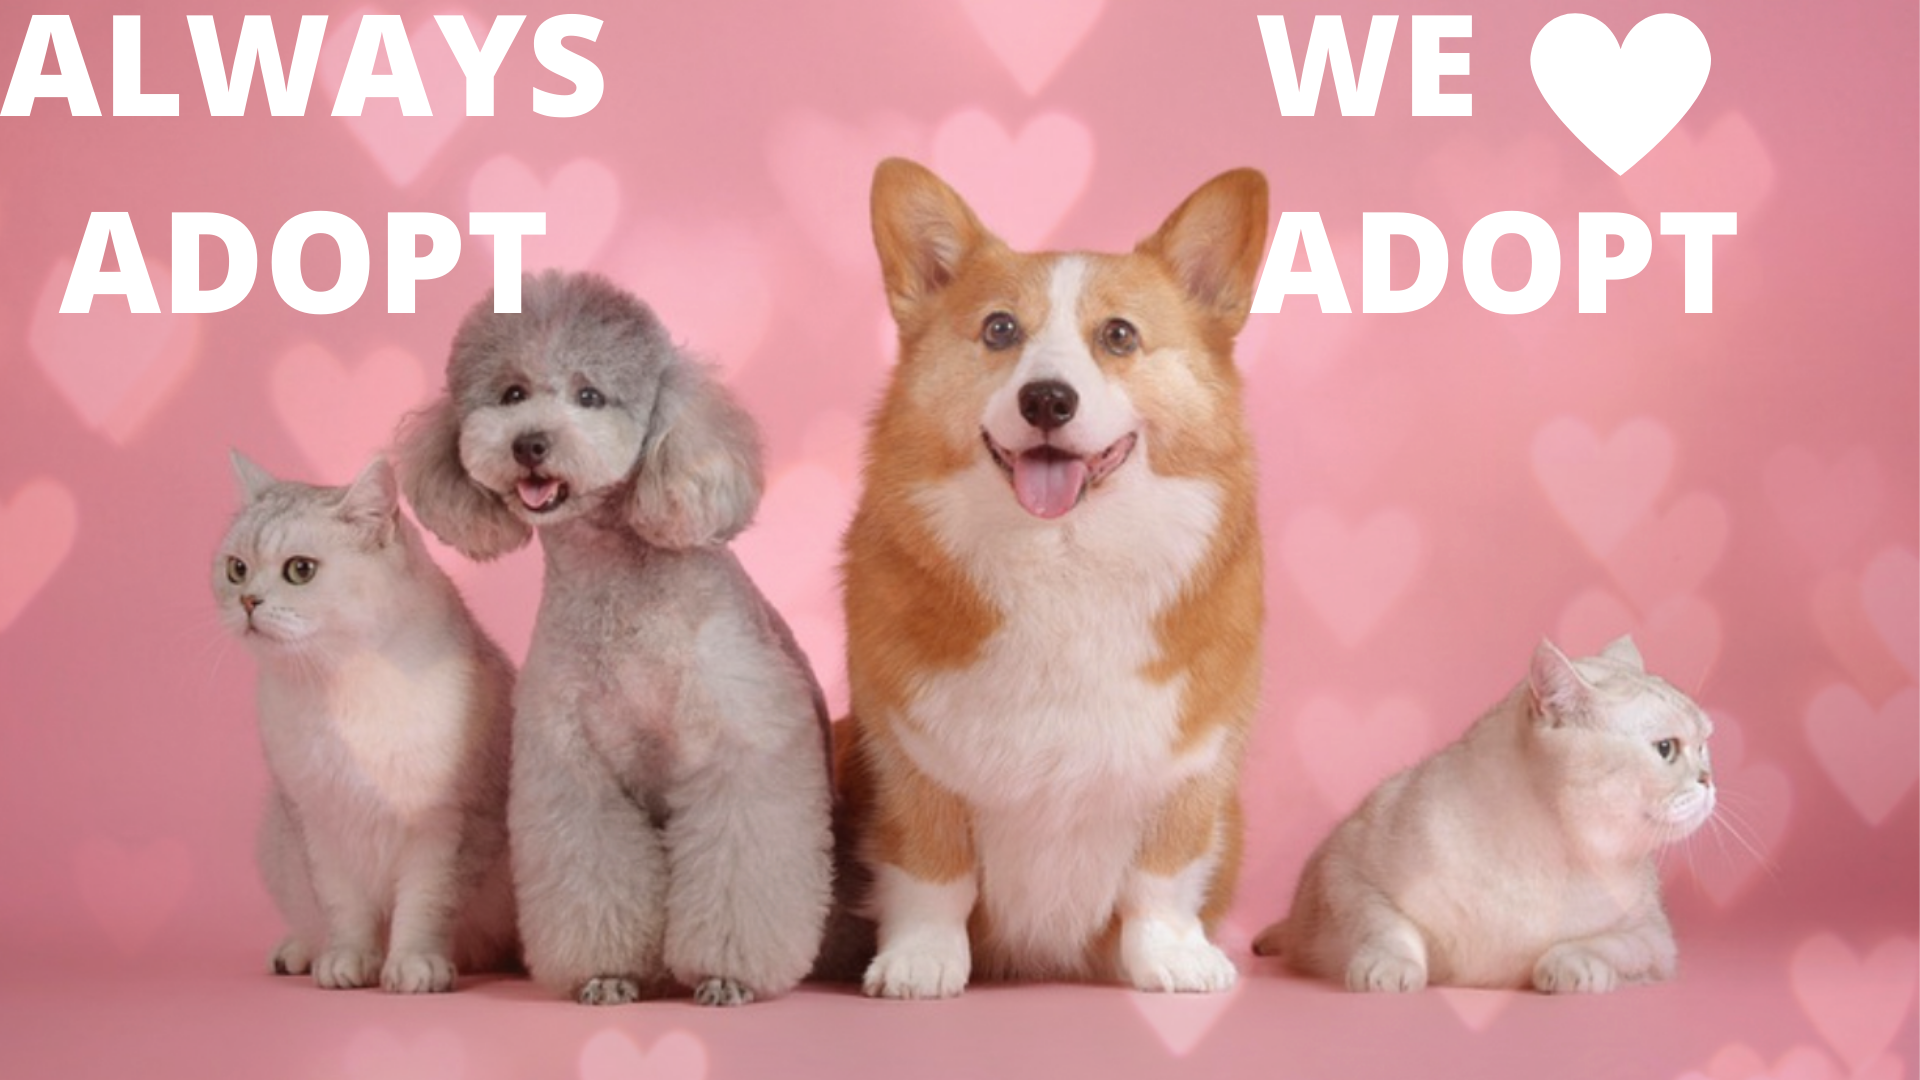
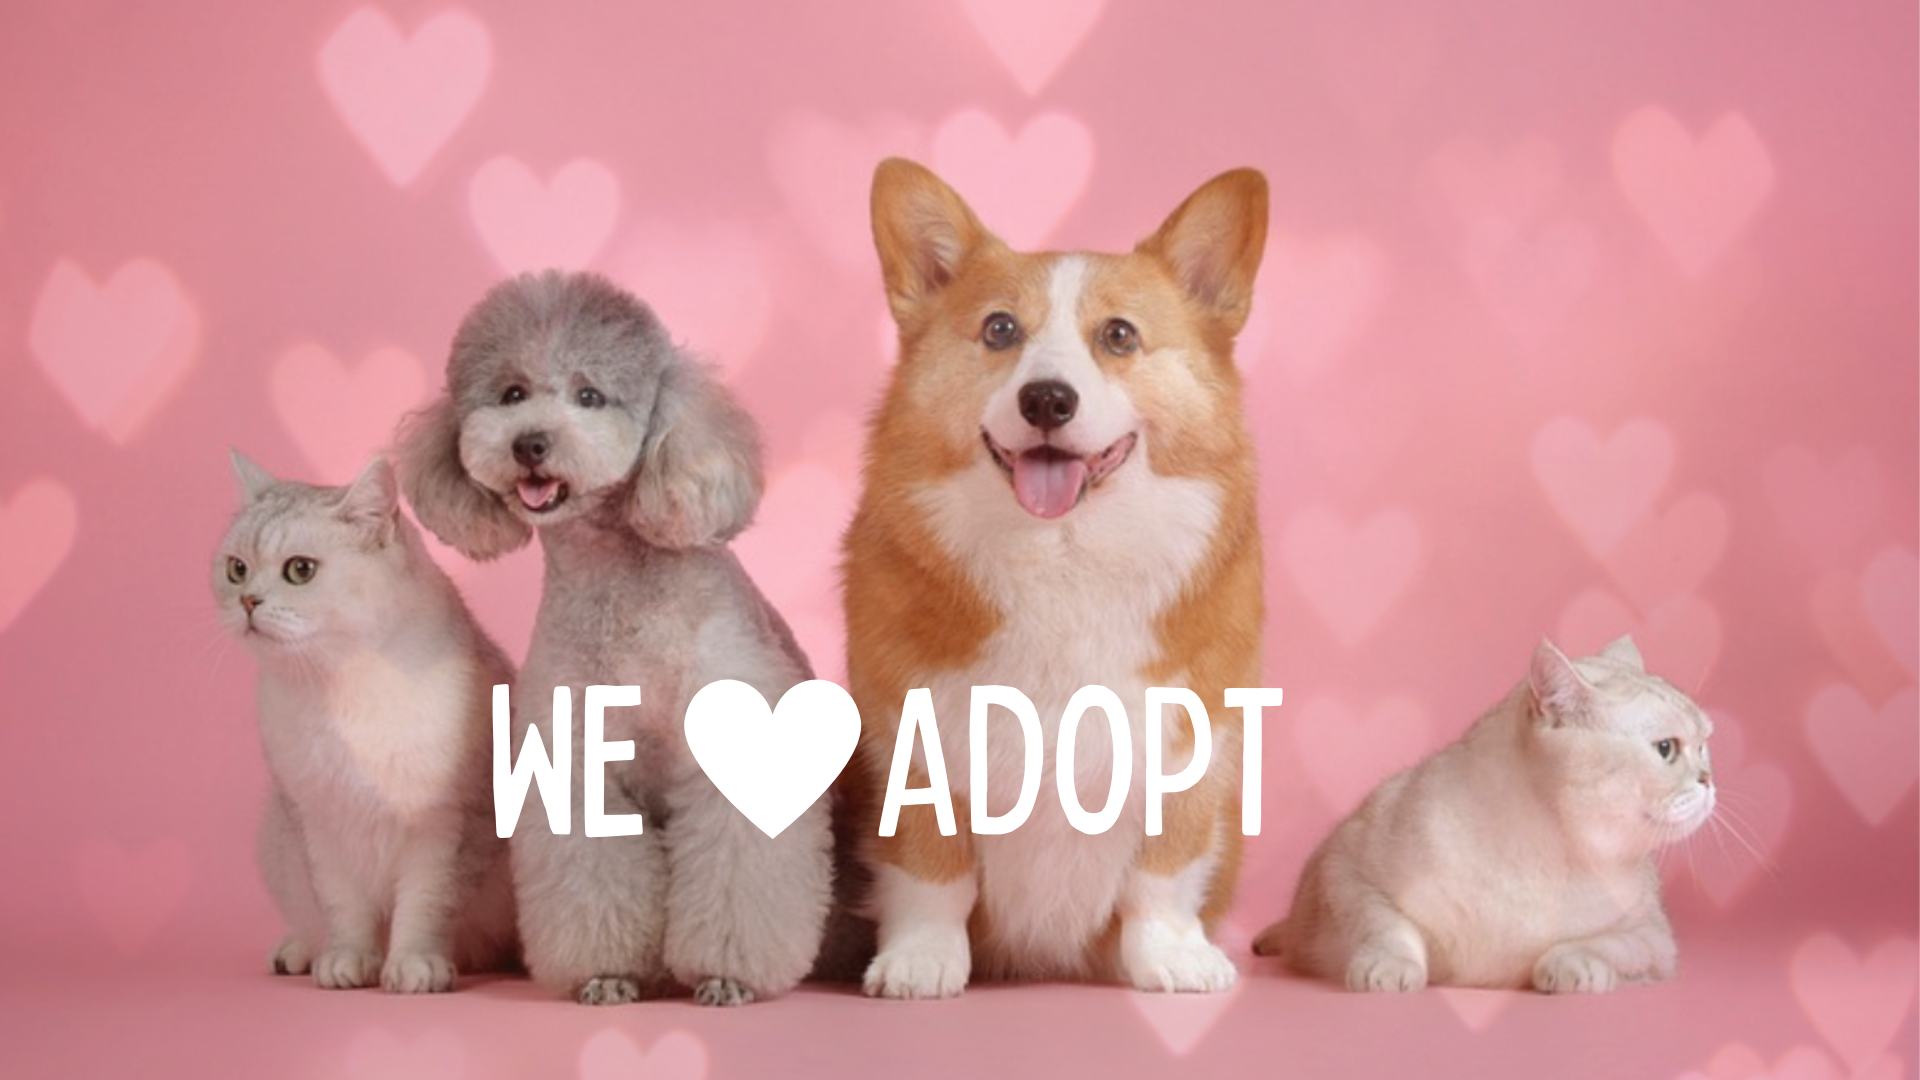
more improvements

diff --git a/s21jquery_ajax/index.html b/s21jquery_ajax/index.html
@@ -23,16 +23,20 @@
         <div class="container-fluid">
             <button class="navbar-toggler" type="button" data-toggle="collapse" data-target="#navbarSupportedContent" aria-controls="navbarSupportedContent" aria-expanded="false" aria-label="Toggle navigation">
                 <span class="navbar-toggler-icon"></span>
-              </button>
-              <div class="collapse navbar-collapse" id="navbarSupportedContent">
+            </button>
+                <div class="collapse navbar-collapse" id="navbarSupportedContent">
+                    <div>
+                        <a href="./index.html" class="pr-3 nav-logo" >
+                            <img src="./img/AdoptApp-2.png" alt="">
+                        </a>
+                    </div>
                 <ul class="navbar-nav">
-                  <li class="nav-item">
-                    <a style="font-size:1.5rem" class="nav-link active" aria-current="page" href="#">Mascotas</a>
-                  </li>
-                  <li class="nav-item">
-                    <a style="font-size:1.5rem" class="nav-link disponibles" href="#">Disponibles</a>
-                  </li>
-                  
+                    <li class="nav-item">
+                        <a style="font-size: 2rem;" class="nav-link active" aria-current="page" href="#">Mascotas</a>
+                    </li>
+                        <li class="nav-item">
+                        <a style="font-size: 2rem;" class="nav-link disponibles" href="#">Disponibles</a>
+                    </li>
                 </ul>
             </div>
         </div>
@@ -46,13 +50,13 @@
         </ol>
         <div class="carousel-inner">
             <div class="carousel-item active">
-                <img class="d-block w-100" src="./img/adopting-marathon.png" alt="First slide">
+                <img class="d-block " src="./img/adopting-marathon.png" alt="First slide">
             </div>
         <div class="carousel-item">
-            <img class="d-block w-100" src="./img/small-species.png" alt="Second slide">
+            <img class="d-block " src="./img/small-species.png" alt="Second slide">
         </div>
         <div class="carousel-item">
-            <img class="d-block w-100" src="./img/we-love-adopting.png" alt="Third slide">
+            <img class="d-block" src="./img/we-love-adopting.png" alt="Third slide">
         </div>
         </div>
         <a class="carousel-control-prev" href="#carouselExampleIndicators" role="button" data-slide="prev">
@@ -63,7 +67,7 @@
             <span class="carousel-control-next-icon" aria-hidden="true"></span>
             <span class="sr-only">Next</span>
         </a>
-    </div>
+        </div>
     <div class="container mt-5">
         <div class="row">
             <div class="col-12 col-md-4">
@@ -74,7 +78,7 @@
                             placeholder="Ingresa el nombre de tu mascota" value="Ikki" required aria-describedby="validationServer1">
                             <div class="invalid-feedback" id="validationServer1">
                                 Por favor, ingrese el nombre de la mascota.
-                              </div> 
+                            </div> 
                     </div>
                     <div class="form-group">
                         <select name="specie" class="form-control" id="specie" required aria-describedby="validationServer2">
@@ -86,14 +90,14 @@
                         </select>
                         <div class="invalid-feedback" id="validationServer2">
                             Por favor,selecciona una especie válida.
-                          </div>  
+                        </div>  
                         </div>
                         <div class="form-group">
                         <input name="age"  type="number" class="form-control" placeholder="Qué edad tiene tu mascota?"
                             value="2 meses" required aria-describedby="validationServer3">
                             <div class="invalid-feedback"  id="validationServer3">
                                 Por favor, ingrese la edad de la mascota.
-                              </div> 
+                            </div> 
                     </div>
                     <div class="form-group">
                         <input name="picture" required type="text" class="form-control"
@@ -101,14 +105,14 @@
                             value="https://tse1.mm.bing.net/th?id=OIP.rn3yMJz55q1rt0vR2vvWXQHaFR&pid=Api"  aria-describedby="validationServer4">
                             <div class="invalid-feedback"  id="validationServer4">
                                 Por favor, ingrese la url de la imagen.
-                              </div> 
+                            </div> 
                     </div>
                     <button style="font-family: 'Patrick Hand', cursive; font-size: 1.2rem;" type="button" id="save-pet" class="btn btn-success">Guardar</button>
                 </form>
             </div>
             <div class="col-12 col-md-8">
                 <div class="w-100">
-                    <form class="p-3 bg-dark text-white border rounded">
+                    <form class="p-3 text-white rounded filter-form mb-3">
                         <div class="form-group">
                             <label for="specie">Filtrar por especie</label>
                             <select name="specie" class="form-control" id="specie-filter"  aria-describedby="validationServer5">
@@ -146,8 +150,8 @@
             </div>
         </div>   
     </div>
-     <!  >
-     <div class="modal fade" id="exampleModal" tabindex="-1" aria-labelledby="exampleModalLabel" aria-hidden="true">
+    <!  >
+    <div class="modal fade" id="exampleModal" tabindex="-1" aria-labelledby="exampleModalLabel" aria-hidden="true">
         <div class="modal-dialog">
         <div class="modal-content">
             <div class="modal-header">

diff --git a/s21jquery_ajax/js/main.js b/s21jquery_ajax/js/main.js
@@ -96,8 +96,8 @@ $("#save-pet").click(() => {
         petObject = {...petObject, [property] : value }
     })
     console.log( petObject )
-   var checkValidate =  $("#pet-form .is-invalid");
-   if(checkValidate==0){
+    var checkValidate =  $("#pet-form .is-invalid");
+    if(checkValidate==0){
     savePet( petObject )
     printAllPets( getAllPets() )
 }else{
@@ -108,7 +108,6 @@ $("#save-pet").click(() => {
 const displaySelected = (someId) => {
     let mascota = getPetById(someId)
     let { name, specie, age, picture } = mascota
-   
 
     $("#modal-detail").empty()   
     $(".modal-title").html(name)
@@ -117,15 +116,15 @@ const displaySelected = (someId) => {
     <div class="card pet-card">
     <img src="${picture}" class="card-img-top" alt="...">
     <div class="card-body">
-      <h5 class="card-title">Nombre: ${name}</h5>
+        <h5 class="card-title">Nombre: ${name}</h5>
     </div>
     <ul class="list-group list-group-flush">
-      <li class="list-group-item">Especie: ${specie}</li>
-      <li class="list-group-item">Edad: ${age}</li>
+        <li class="list-group-item">Especie: ${specie}</li>
+        <li class="list-group-item">Edad: ${age}</li>
     </ul>
-  </div>`
-  console.log(mascotaHtml)
-  $("#modal-detail").append(mascotaHtml)
+    </div>`
+    console.log(mascotaHtml)
+    $("#modal-detail").append(mascotaHtml)
 
 }
 
@@ -139,17 +138,17 @@ const printAllPets = petsData => {
         <div class="card pet-card">
         <a href = "vista.html?mascota=${pet}" target = "_blank" > <img src=${picture} class="card-img-top" alt="..."> </a>
             <div class="card-body">
-                <h5 class="card-title"><img class="pr-1" style="width: 18px; height: 15px;" src="./img/paw.png" alt="paw">${name}</h5>
+                <h6 class="card-title"><img class="pr-1" style="width: 18px; height: 15px;" src="./img/paw.png" alt="paw">${name}</h6>
                 <p class="card-text">Especie: ${specie}</p>
                 <p class="card-text">Edad: ${age}</p>
-                <button type="button" class="btn btn-primary btnDetalle" data-pet-key=${pet} data-toggle="modal" data-target="#exampleModal ">Detalle</button>
-                <button type="button" class="btn btn-danger btn-delete" data-pet-key=${pet}>Borrar</button>
-                ${!adopted ? `<a href="adoptForm.html?adoptKey=${pet}" class="btn btn-success adopt" data-pet-key=${pet}>Adoptame</a>`:''}
+                <button type="button" class="btn  btnDetalle" data-pet-key=${pet} data-toggle="modal" data-target="#exampleModal ">Detalle</button>
+                <button type="button" class="btn  btn-delete" data-pet-key=${pet}>Borrar</button>
+                ${!adopted ? `<a href="adoptForm.html?adoptKey=${pet}" class="btn  adopt" data-pet-key=${pet}>Adoptame</a>`:''}
             </div>
             </div>
             </div>
         `
-       specie!==undefined?fillSelectSpecies(specie):console.log('especie rechazada',specie);
+    //specie!==undefined?fillSelectSpecies(specie):console.log('especie rechazada',specie);
         $(".pets-wrapper").append(petHtml) 
     }
 
@@ -203,7 +202,7 @@ $("#btn-confirm").click( () => {
 $("#specie-filter").change(function() {
     let filterOption = $("#specie-filter").val();
     petsCollection = getAllPets()
-     console.log( petsCollection )
+        console.log( petsCollection )
     console.log( filterOption )
 
     let filterResult = Object.keys(petsCollection).reduce( ( accum, current ) => {
@@ -217,7 +216,7 @@ $("#specie-filter").change(function() {
 const capitalize = (s) => {
     if (typeof s !== 'string') return ''
     return s.charAt(0).toUpperCase() + s.slice(1)
-  }
+    }
 
 
  function fillSelectSpecies(specie){   

diff --git a/s21jquery_ajax/disponibles.html b/s21jquery_ajax/disponibles.html
@@ -8,11 +8,14 @@
     <title>Document</title>
     <link rel="stylesheet" href="https://cdn.jsdelivr.net/npm/bootstrap@4.6.0/dist/css/bootstrap.min.css"
         integrity="sha384-B0vP5xmATw1+K9KRQjQERJvTumQW0nPEzvF6L/Z6nronJ3oUOFUFpCjEUQouq2+l" crossorigin="anonymous">
+        <link rel="preconnect" href="https://fonts.googleapis.com">
+        <link rel="preconnect" href="https://fonts.gstatic.com" crossorigin>
+        <link href="https://fonts.googleapis.com/css2?family=Patrick+Hand&display=swap" rel="stylesheet"> 
     <link rel="stylesheet" href="css/style.css">
 </head>
 
 <body>
-    <nav class="navbar navbar-expand-lg navbar-dark bg-dark mb-5">
+    <nav class="navbar navbar-expand-lg navbar-dark  mb-5">
         <div class="container-fluid">
             <button class="navbar-toggler" type="button" data-toggle="collapse" data-target="#navbarSupportedContent" aria-controls="navbarSupportedContent" aria-expanded="false" aria-label="Toggle navigation">
                 <span class="navbar-toggler-icon"></span>

diff --git a/s21jquery_ajax/css/style.scss b/s21jquery_ajax/css/style.scss
@@ -10,8 +10,13 @@ $beauBlue: hsl(204, 49%, 87%);
 
 .navbar{
     background-color: $lavender;
-    #nav-logo{
-        height: 80px;
+    img{
+        height: 55px;
+    }
+    li{
+        a{
+            font-family: 'Patrick Hand', cursive;
+        }
     }
 }
 
@@ -49,13 +54,24 @@ $beauBlue: hsl(204, 49%, 87%);
     }
 }
 
-h5{
+h6{
     color: $romanSilver;
     font-family: 'Patrick Hand', cursive;
-    font-size: 1.5rem;
+    font-size: 1.8rem;
 }
 
 h1{
     color: $lavender;
 }
 
+.filter-form{
+    background-color: $thistle;
+}
+
+.carousel-inner{
+    img{
+        height: 90vh;
+        width: 100%;
+        object-fit: cover;
+    }
+}

diff --git a/s21jquery_ajax/css/style.css b/s21jquery_ajax/css/style.css
@@ -6,8 +6,12 @@
   background-color: #d5c8df;
 }
 
-.navbar #nav-logo {
-  height: 80px;
+.navbar img {
+  height: 55px;
+}
+
+.navbar li a {
+  font-family: 'Patrick Hand', cursive;
 }
 
 #form-header {
@@ -46,13 +50,24 @@
   height: 200px;
 }
 
-h5 {
+h6 {
   color: #838b95;
   font-family: 'Patrick Hand', cursive;
-  font-size: 1.5rem;
+  font-size: 1.8rem;
 }
 
 h1 {
   color: #d5c8df;
+}
+
+.filter-form {
+  background-color: #dfbed0;
+}
+
+.carousel-inner img {
+  height: 90vh;
+  width: 100%;
+  -o-object-fit: cover;
+     object-fit: cover;
 }
 /*# sourceMappingURL=style.css.map */

diff --git a/s21jquery_ajax/vista.html b/s21jquery_ajax/vista.html
@@ -8,6 +8,9 @@
     <title>Document</title>
     <link rel="stylesheet" href="https://cdn.jsdelivr.net/npm/bootstrap@4.6.0/dist/css/bootstrap.min.css"
         integrity="sha384-B0vP5xmATw1+K9KRQjQERJvTumQW0nPEzvF6L/Z6nronJ3oUOFUFpCjEUQouq2+l" crossorigin="anonymous">
+        <link rel="preconnect" href="https://fonts.googleapis.com">
+        <link rel="preconnect" href="https://fonts.gstatic.com" crossorigin>
+        <link href="https://fonts.googleapis.com/css2?family=Patrick+Hand&display=swap" rel="stylesheet"> 
     <link rel="stylesheet" href="css/style.css">
 </head>
 
